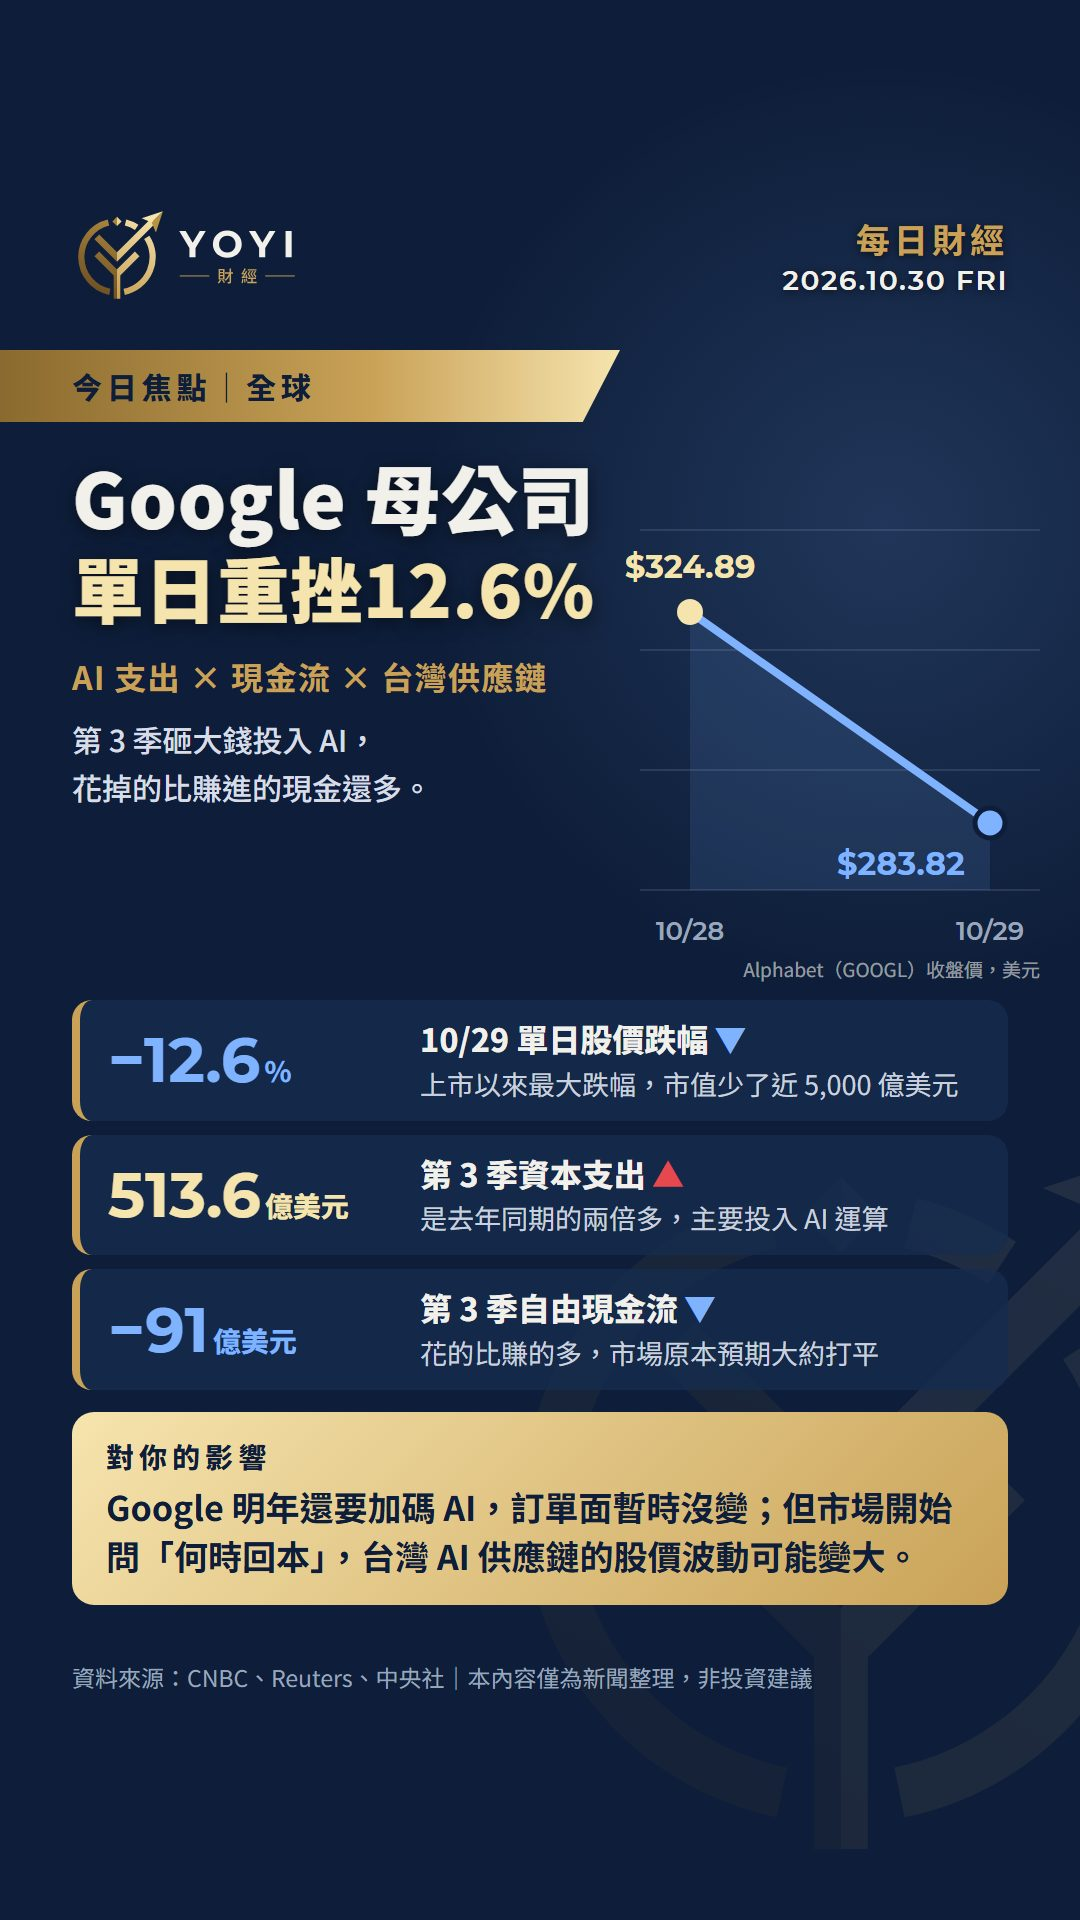
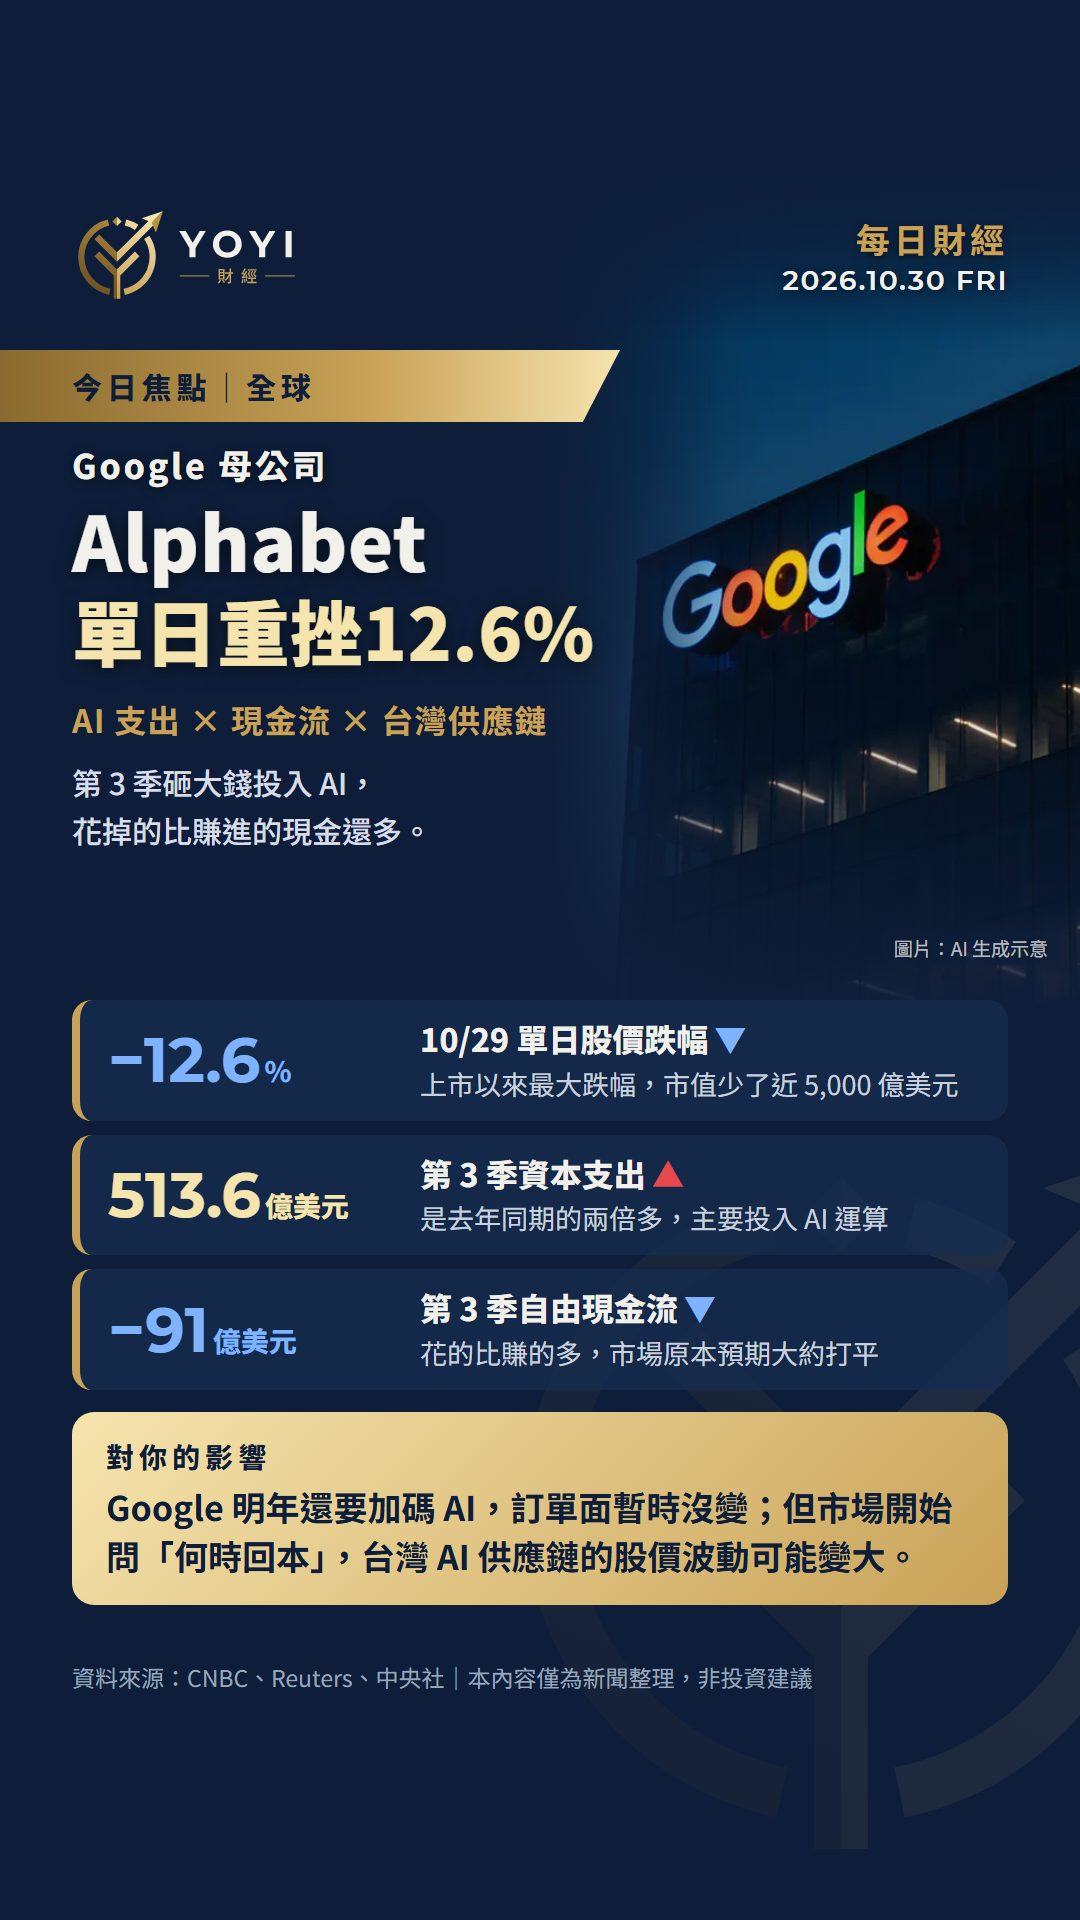
焦點新聞加「市場反應」：事件前後收盤漲跌，5 個交易日後補上；10/30 圖卡換回 AI 照片版

diff --git a/news.html b/news.html
@@ -50,6 +50,19 @@ ol.pts span{display:block;font-size:14.5px;color:var(--body);margin-top:4px;line
 .impact b{display:block;color:#8A6424;font-size:14px;margin-bottom:4px}
 .src{margin-top:16px;font-size:12.5px;color:#A39C8D;line-height:1.9}
 .src a{color:var(--mute)}
+/* 市場反應：台股慣例 漲紅跌綠；數字由 99_工具腳本/market_update.py 寫進 news.json */
+.mkt{margin-top:18px;padding:14px 14px 12px;border-radius:14px;background:#fff;border:1px solid var(--line)}
+.mkt .sub{margin-top:0;display:flex;justify-content:space-between;align-items:baseline;gap:8px}
+.mkt .sub small{font-weight:400;font-size:12px;color:var(--mute)}
+.mrow{display:flex;align-items:center;gap:10px;padding:10px 0;border-top:1px dashed rgba(184,137,58,.25)}
+.mrow:first-of-type{border-top:0}
+.mrow .n{flex:1;min-width:0;font-weight:700;font-size:15px;line-height:1.4}
+.mrow .n span{display:block;font-weight:400;font-size:13px;color:var(--mute);margin-top:2px;font-variant-numeric:tabular-nums}
+.c{flex:none;min-width:76px;text-align:center;font-weight:900;font-size:15px;padding:4px 8px;border-radius:10px;font-variant-numeric:tabular-nums}
+.c.up{background:#FDECEC;color:#C8312B}.c.dn{background:#E7F4EC;color:#1E7A46}
+.later{margin-top:6px;font-size:12.5px;color:var(--mute);background:var(--bg);padding:8px 10px;border-radius:10px;line-height:1.7}
+.later .c{display:inline-block;min-width:0;font-size:12.5px;padding:1px 6px;margin-left:4px}
+.mnote{font-size:11.5px;color:#A39C8D;margin-top:8px}
 .cta{display:block;margin-top:18px;text-align:center;text-decoration:none;font-weight:700;padding:14px 10px;border-radius:14px;background:#06C755;color:#fff;box-shadow:0 8px 22px rgba(6,199,85,.22)}
 /* 過去焦點 */
 .list{display:flex;flex-direction:column;gap:10px}
@@ -86,9 +99,22 @@ var LINE='https://line.me/ti/g2/oGpI4FlkE2rB_jD6QlG7KZxtaWwn9jZ72CVLiA', all=[],
 function esc(s){return String(s||'').replace(/[&<>"']/g,function(c){return {'&':'&amp;','<':'&lt;','>':'&gt;','"':'&quot;',"'":'&#39;'}[c]})}
 function tag(n){return '<span class="tag'+(n.region==='台灣'?' tw':'')+'">'+esc(n.region)+'</span>'}
 function md(n){return n.date.slice(5).replace('-','/')}
+function fmt(v){return v.toLocaleString('zh-TW',{maximumFractionDigits:2})}
+function md2(d){return d.slice(5).replace('-','/')}
+function pct(a,b){var d=(b-a)/a*100;return '<span class="c '+(d>=0?'up':'dn')+'">'+(d>=0?'▲ ':'▼ ')+Math.abs(d).toFixed(2)+'%</span>'}
+// 市場反應：事件前一個交易日收盤 → 反應當天收盤，5 個交易日後再補一次
+function mkt(n){
+  var m=n.market, it=m&&m.items.filter(function(i){return i.after!=null});
+  if(!it||!it.length)return '';
+  var h='<div class="mkt"><div class="sub">📈 市場反應<small>'+md2(it[0].beforeDate)+' 收盤 → '+md2(it[0].afterDate)+' 收盤</small></div>';
+  it.forEach(function(i){h+='<div class="mrow"><div class="n">'+esc(i.name)+'<span>'+fmt(i.before)+' → '+fmt(i.after)+(i.unit?' '+esc(i.unit):'')+'</span></div>'+pct(i.before,i.after)+'</div>'});
+  if(it[0].later==null){h+='<div class="later">⏳ 5 個交易日後的表現：預計 '+md2(it[0].laterDate)+' 收盤後補上</div>'}
+  else{h+='<div class="later">📅 5 個交易日後（'+md2(it[0].laterDate)+'）相較事件前：<br>'+it.map(function(i){return esc(i.name)+' '+fmt(i.later)+pct(i.before,i.later)}).join('<br>')+'</div>'}
+  return h+'<p class="mnote">事件前＝消息出來前一個交易日收盤；事件後＝消息反應當天收盤。僅為股價紀錄，非投資建議。</p></div>';
+}
 // 今日焦點和過去焦點共用的內文
 function body(n){
-  var h='<p class="one">'+esc(n.one)+'</p>';
+  var h='<p class="one">'+esc(n.one)+'</p>'+mkt(n);
   if(n.points.length){h+='<div class="sub">3 個白話重點</div><ol class="pts">'+n.points.map(function(p){return '<li><div><b>'+esc(p.h)+'</b><span>'+esc(p.b)+'</span></div></li>'}).join('')+'</ol>'}
   if(n.taiwan){h+='<div class="tw-box"><div class="sub">和台灣的關係</div>'+n.taiwan.split('\n').map(function(t){return '<p>'+esc(t)+'</p>'}).join('')+'</div>'}
   if(n.impact){h+='<div class="impact"><b>💡 對你的影響</b>'+esc(n.impact)+'</div>'}
